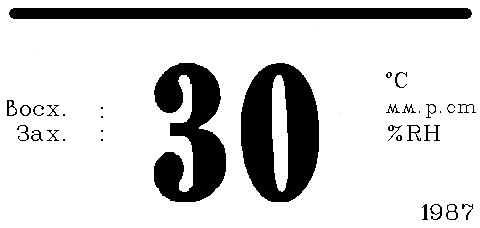
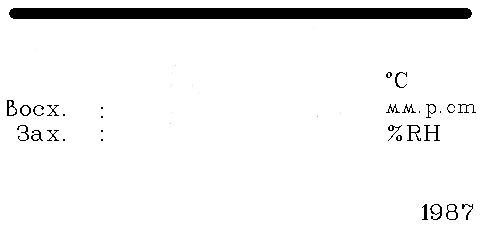
Added support for layout image in the flash.

Changed region(s): [[0.5, 0.2763, 0.6875, 0.8904], [0.3125, 0.2763, 0.4688, 0.8904]]

diff --git a/bin2flash/src/main.rs b/bin2flash/src/main.rs
@@ -10,6 +10,7 @@
 //!
 //! Image directory is expected to have particular subdirectories with particular files in them:
 //!
+//! -- /layout.bin - Mandatory, information area layout template (480x228)
 //! -- /big_digits/{0..9}.bin - Mandatory, contains big digits (80x48)
 //! -- /data/%mm%-%dd%-a-black.bin - Mandatory, frontpage of calendar data in black color (480x420)
 //! -- /data/%mm%-%dd%-a-red.bin - Optional, red channel of calendar frontpage (480x420)
@@ -23,6 +24,7 @@
 //! File begins with directory of entries. Each entry is u32, pointing to the first byte of
 //! `.bin` file related to entry. First 8 bits of entry are unused, but could be used in the future for 8-bit checksum.
 //! Offset `0x0000` is a marker of missing data. Entries follow each other in the following order:
+//! * layout template entry
 //! * 10 entries of big digits
 //! * 10 entries of small digits
 //! * 12 month names entries
@@ -30,14 +32,14 @@
 //! * 8 moon phase entries
 //! * 366 triplets of a side black, a side red and b side red images for each day, starting from 1st of January
 //!
-//!The directory takes 366*3 + 8 + 7 + 12 + 10 +10 = 1145 entries or 1145*32=36640 bytes. First images starts
+//!The directory takes 1 + 366*3 + 8 + 7 + 12 + 10 +10 = 1146 entries or 1146*4=4584 bytes. First images starts
 //! exactly after directory
 //!
 
 use std::fs::{File, OpenOptions};
 use std::io::{Seek, SeekFrom, Write};
 use std::path::{Path, PathBuf};
-use byteorder::{BigEndian, WriteBytesExt};
+use byteorder::{LittleEndian, WriteBytesExt};
 use clap::{Parser};
 use humansize::{file_size_opts as options, FileSize};
 use anyhow::Result;
@@ -69,7 +71,7 @@ fn dump_directory(output_file: &mut File, entries_directory: &[u32]) -> Result<u
     let mut offset = 0;
     output_file.seek(SeekFrom::Start(0))?;
     for entry in entries_directory {
-        output_file.write_u32::<BigEndian>(*entry)?;
+        output_file.write_u32::<LittleEndian>(*entry)?;
         offset += 4;
     };
     Ok(offset)
@@ -84,11 +86,16 @@ fn main() {
     let opts: Opts = Opts::parse();
     info!("Input directory: {}", opts.input);
 
-    let mut entries_directory: [u32; 1145] = [0; 1145];
+    let mut entries_directory: [u32; 1146] = [0; 1146];
     let mut directory_index=0;
 
     let mut output_file = OpenOptions::new().write(true).create(true).truncate(true).open("spiflash.bin").unwrap();
     let mut offset = dump_directory(&mut output_file, &entries_directory).unwrap();
+
+    //Add layout
+    let layout_fname : PathBuf = [&opts.input, "layout.bin"].iter().collect();
+    offset = add_file_to_flash(&layout_fname, offset, &mut entries_directory, directory_index, &mut output_file).unwrap();
+    directory_index+=1;
 
     //Add Big Digits
     for i in 0..10 {
